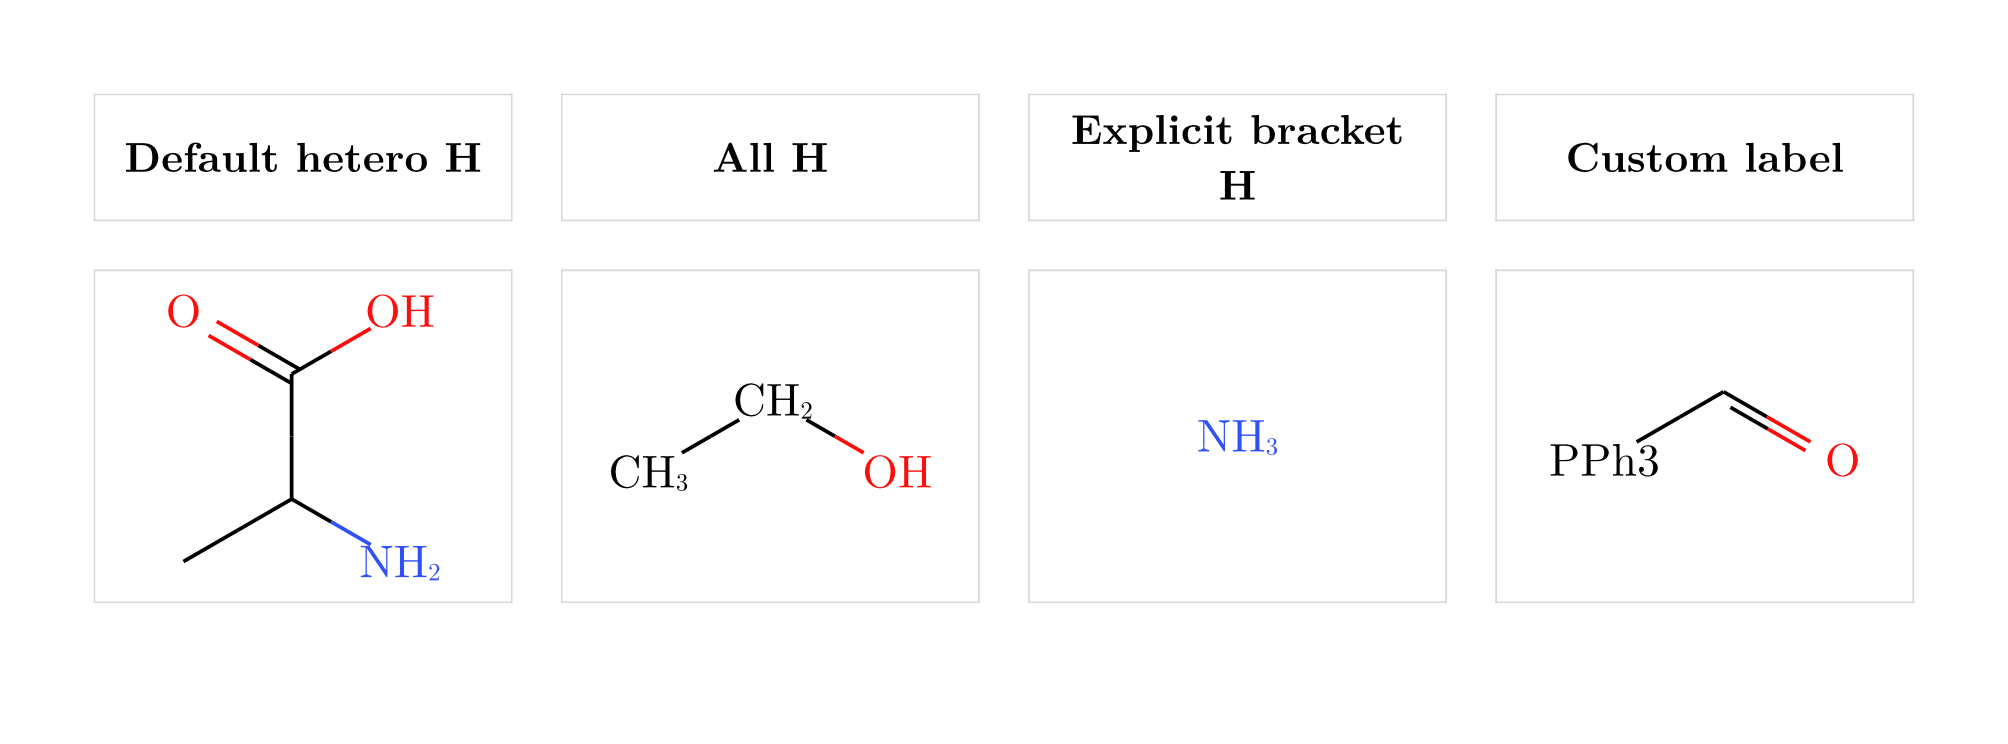
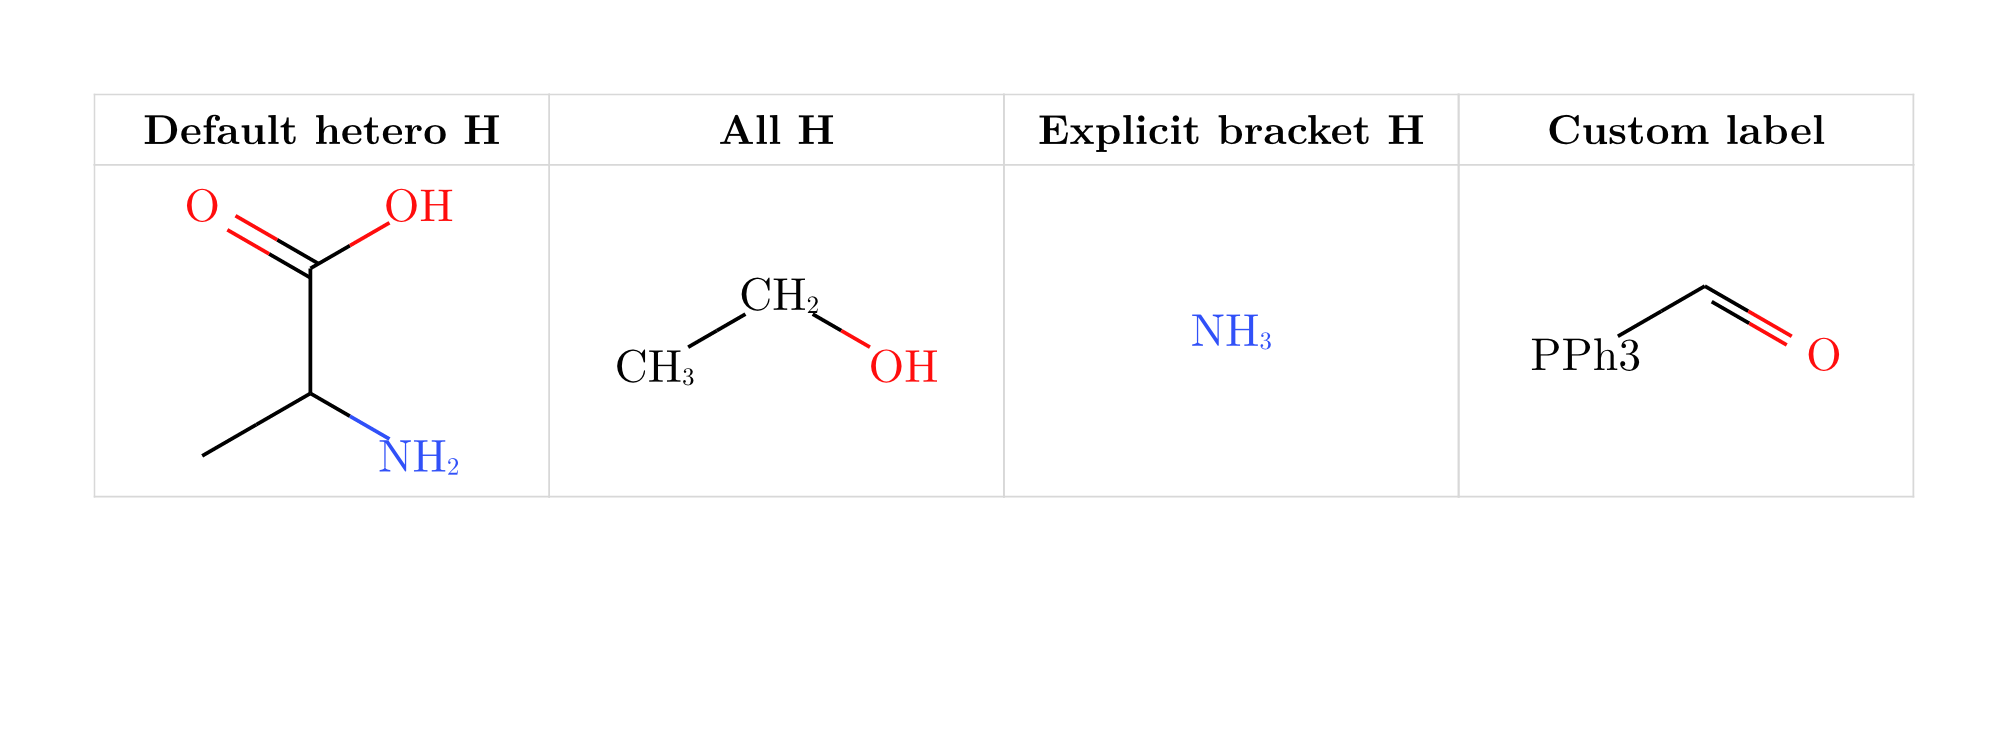
Tighten README example layouts

diff --git a/README.md b/README.md
@@ -18,7 +18,8 @@ skeletal structure.
 
 #table(
   columns: (1fr, 1fr, 1fr, 1fr),
-  gutter: 1.2em,
+  gutter: 0em,
+  row-gutter: 0em,
   align: center + horizon,
   stroke: 0.4pt + rgb("#d8d8d8"),
 
@@ -44,7 +45,8 @@ its aspect ratio. Here is the same molecule drawn at three sizes:
 ```typst
 #table(
   columns: (1fr, 1fr, 1fr),
-  gutter: 1.2em,
+  gutter: 0em,
+  row-gutter: 0em,
   align: center + horizon,
   stroke: 0.4pt + rgb("#d8d8d8"),
 
@@ -72,7 +74,8 @@ custom upright group labels.
 ```typst
 #table(
   columns: (1fr, 1fr, 1fr, 1fr),
-  gutter: 1.2em,
+  gutter: 0em,
+  row-gutter: 0em,
   align: center + horizon,
   stroke: 0.4pt + rgb("#d8d8d8"),
 
@@ -102,20 +105,15 @@ diagram would be unnecessary.
 
 #table(
   columns: (1fr, 1fr),
-  gutter: 1.2em,
-  row-gutter: 1em,
+  gutter: 0em,
+  row-gutter: 0em,
   align: center + horizon,
   stroke: 0.4pt + rgb("#d8d8d8"),
 
-  [*Formula*],
-  [*Ions*],
-  [#ce("H2SO4")],
-  [#ce("(NH4)2SO4")],
-
-  [*Combustion*],
-  [*Equilibrium*],
-  [#ce("CH4 + 2O2 -> CO2 + 2H2O")],
-  [#ce("N2 + 3H2 <=> 2NH3")],
+  [#stack(spacing: 0.35cm, strong[Formula], ce("H2SO4"))],
+  [#stack(spacing: 0.35cm, strong[Ions], ce("(NH4)2SO4"))],
+  [#stack(spacing: 0.35cm, strong[Combustion], ce("CH4 + 2O2 -> CO2 + 2H2O"))],
+  [#stack(spacing: 0.35cm, strong[Equilibrium], ce("N2 + 3H2 <=> 2NH3"))],
 )
 ```
 
@@ -131,23 +129,29 @@ plus signs, labels, and arrow conditions in one layout.
 #import "@preview/typed-smiles:0.2.0": smiles, ce, rxn-arrow, mol, reaction
 
 #stack(
-  spacing: 1.2em,
-  align(center, strong[Fischer esterification]),
-  align(center, reaction(
-    mol(smiles("CC(=O)O"), label: text(size: 8pt)[acetic acid]),
-    [+],
-    mol(smiles("CCO"), label: text(size: 8pt)[ethanol]),
-    rxn-arrow(above: ce("H+"), below: [heat]),
-    mol(smiles("CCOC(=O)C"), label: text(size: 8pt)[ethyl acetate]),
-    [+],
-    ce("H2O"),
-  )),
-  align(center, strong[Electrophilic aromatic bromination]),
-  align(center, reaction(
-    mol(smiles("C1=CC=CC=C1"), label: text(size: 8pt)[benzene]),
-    rxn-arrow(above: ce("Br2"), below: ce("FeBr3")),
-    mol(smiles("BrC1=CC=CC=C1"), label: text(size: 8pt)[bromobenzene]),
-  )),
+  spacing: 1cm,
+  stack(
+    spacing: 0.4cm,
+    align(center, strong[Fischer esterification]),
+    align(center, reaction(
+      mol(smiles("CC(=O)O"), label: text(size: 8pt)[acetic acid]),
+      [+],
+      mol(smiles("CCO"), label: text(size: 8pt)[ethanol]),
+      rxn-arrow(above: ce("H+"), below: [heat]),
+      mol(smiles("CCOC(=O)C"), label: text(size: 8pt)[ethyl acetate]),
+      [+],
+      ce("H2O"),
+    )),
+  ),
+  stack(
+    spacing: 0.4cm,
+    align(center, strong[Electrophilic aromatic bromination]),
+    align(center, reaction(
+      mol(smiles("C1=CC=CC=C1"), label: text(size: 8pt)[benzene]),
+      rxn-arrow(above: ce("Br2"), below: ce("FeBr3")),
+      mol(smiles("BrC1=CC=CC=C1"), label: text(size: 8pt)[bromobenzene]),
+    )),
+  ),
 )
 ```
 
@@ -185,7 +189,8 @@ interpretation.
 ```typst
 #table(
   columns: (1fr, 1fr, 1fr, 1fr),
-  gutter: 1.2em,
+  gutter: 0em,
+  row-gutter: 0em,
   align: center + horizon,
   stroke: 0.4pt + rgb("#d8d8d8"),
 
